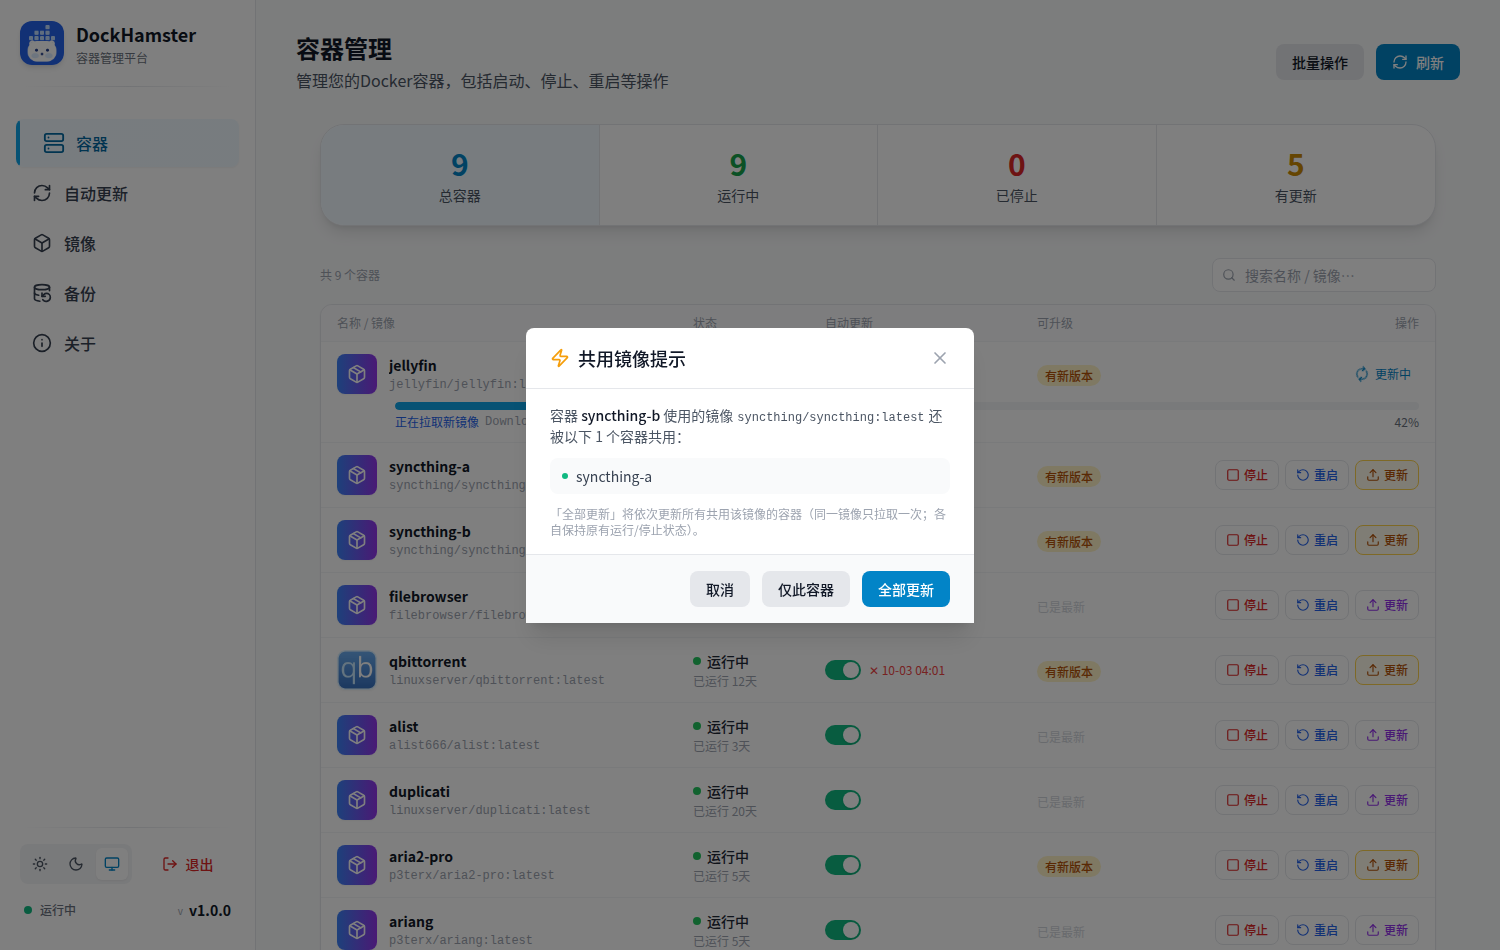
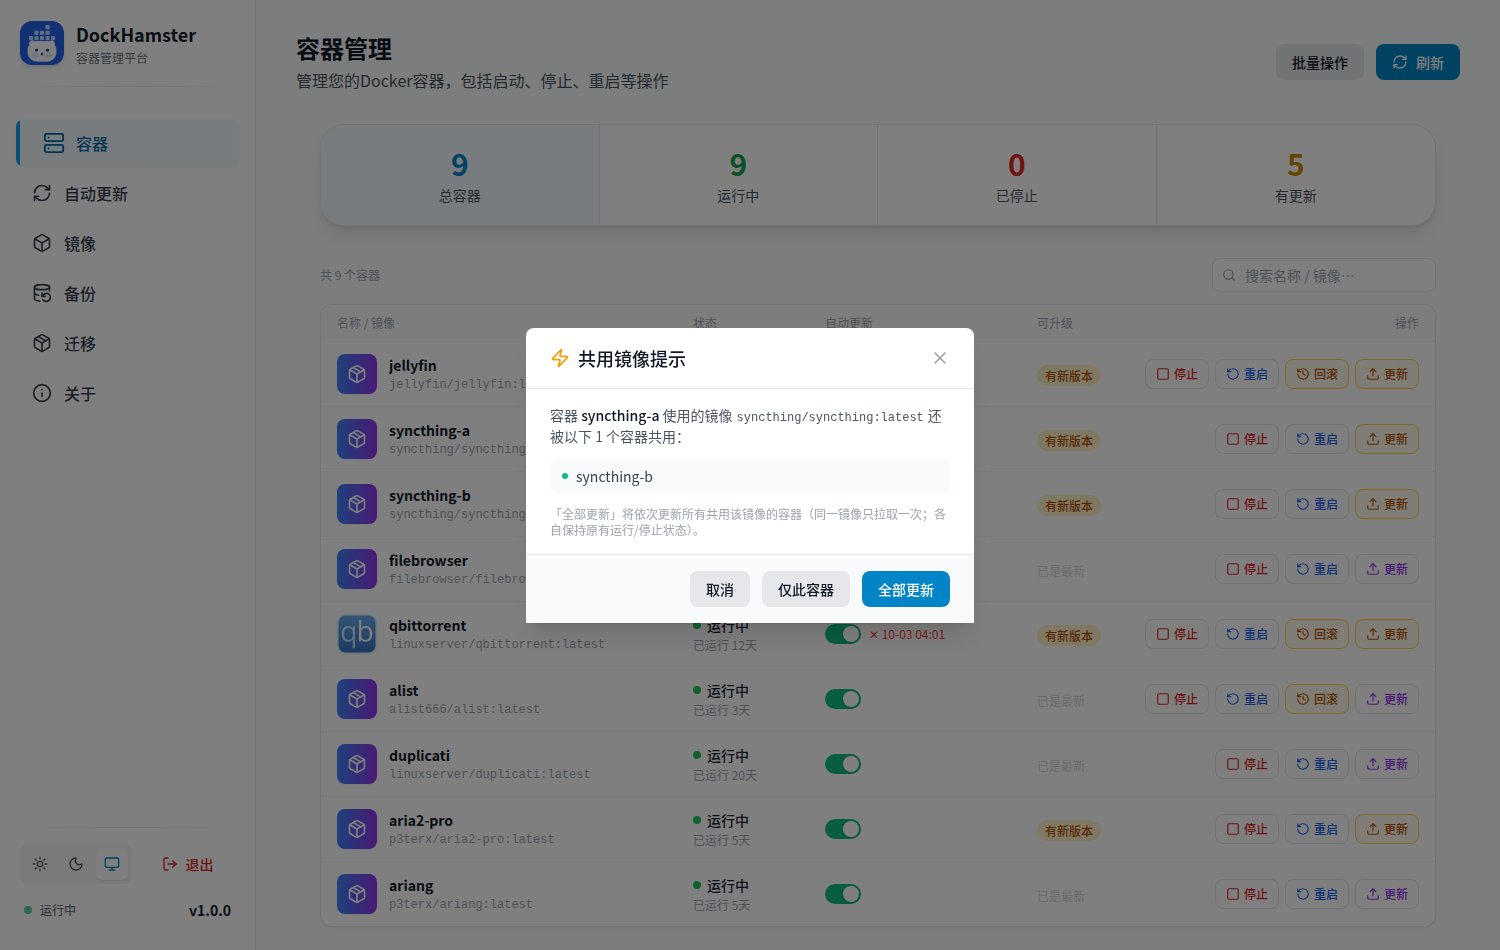
docs: 补充快照回滚与容器迁移说明，重拍全部截图 [skip ci]

diff --git a/FEATURES.md b/FEATURES.md
@@ -77,6 +77,60 @@
 - 交互保持不变：点行打开详情，Ctrl/Cmd+点击或批量模式勾选；统计卡筛选与搜索叠加生效
 - 移动端自动折行排版（每行折为「标题行 + 信息行 + 操作行」）
 
+### 8. 镜像快照与回滚
+
+更新容器时，**旧镜像**（更新前那一份）有三种处置方式，可全局设默认、也可给单个容器指定：
+
+| 策略 | 行为 |
+|---|---|
+| **清理**（默认） | 满足安全条件（无容器引用、无标签、非新镜像）才删除，省空间 |
+| **打快照保留** | 给旧镜像打上 `dh-snap/<名字>:<日期>-<时分>` 标签 → 天然免于自动清理，可随时回滚 |
+| 保留不处理 | 什么都不做（旧行为） |
+
+- **多容器共用镜像时"保留优先"**：任何一个容器要求快照，就给旧镜像打快照
+- **保留数量**：每个镜像默认只留最近 3 个快照，超量自动清理（走同样的安全条件）
+- **回滚**：容器行出现「回滚」按钮（仅当有可用快照）→ 选一个快照 → 用它重建容器
+  - **回滚前会自动给当前版本也打一份快照** → 回滚可逆（双向）
+  - 回滚复用标准更新流程（重建 + 保持原运行状态），全程进度条
+- **占用可见**：自动更新页显示快照数量 / 占用 / 系统盘剩余；镜像页新增「快照」分类可批量清理
+- 快照打的是**独立命名空间**（默认 `dh-snap/`），不参与"更新检测"，也不会被旧镜像清理删掉
+
+### 9. 容器迁移（本地包）
+
+三步闭环，全程零外部依赖（不需要 registry、不需要联网）：
+
+**① 镜像体检** — 扫描全部镜像并分类：
+
+| 分类 | 判定 | 含义 |
+|---|---|---|
+| 公共可得 | 有 RepoDigests（从仓库拉过） | 目标机可直接 pull，无需搬运 |
+| 本地构建 | 有 tag 但无 digest | 换机即丢，**必须打包搬运** |
+| 悬空 | 无任何 tag | 连名字都没有，先打标签才能搬运 |
+
+**② 打包导出** — 选中容器/镜像 → 生成单个 `.tar.gz` 迁移包，内含：
+
+```
+manifest.json      机器可读清单（镜像摘要 + 容器配方 + 校验和）
+images/*.tar.gz    docker save 出来的镜像（流式导出，字节级进度）
+compose.yaml       可直接使用的 compose 文件（含全部容器定义）
+import.sh          无面板一键导入脚本（只用标准 docker 命令）
+README.txt         场景化导入指引（有面板 / 只有 Docker / 手工）
+checksums.txt      校验和（sha256sum -c 可验证完整性）
+```
+
+- 可选：镜像压缩（gzip）、环境变量脱敏（密码/Token 类默认替换为 ****）
+- 容器配置原样保存，保证精确重建
+
+**③ 上传导入** — 上传包 → **预检（dry-run）** → 执行：
+
+- 预检逐容器给出：镜像可得性（本地已有 / 包内提供 / 可拉取 / 缺失）、名字冲突（自动建议新名）、端口冲突（谁占用了）、卷路径状态（**确不存在** / **面板不可见待确认**，后者附同名目录映射建议）
+- 覆盖项：容器改名、宿主端口重映射、卷路径重映射、缺失目录自动创建、导入后自动启动（仅启动原本在运行的）
+- 执行时按需 `docker load` 包内镜像 → 应用覆盖 → 重建容器，进度实时可见
+
+**无面板导入**（换机迁移的常见情形）：包内 `import.sh` 支持 `--dry-run`（只检查：磁盘空间 / 校验和 / 卷路径 / compose 语法），确认后直接执行即可；也可把 `compose.yaml` 粘进 Portainer 等其它面板。
+
+> 架构说明：镜像搬运记录使用 `transports[]` 数组（当前实现 `archive`；`registry` 为预留扩展位），导入端按 `本地已有 → 包内 → registry` 顺序兜底——后续接入自建 registry / Docker Hub 私有仓库是纯增量。
+
 ## 二、环境变量（仅初始默认值）
 
 环境变量只在 `/data/config/autoUpdate.json` **不存在时**用于生成初始配置；之后一律以页面配置为准。
@@ -101,6 +155,20 @@
 | GET | `/api/autoUpdate/status` | 运行状态 + 最近 30 次记录 + 每容器最近结果 |
 | POST | `/api/autoUpdate/testNotify` | 渠道测试发送（`{channel, config}`；config 为前端当前表单值） |
 | POST | `/api/container/:id/updateGroup` | 整组更新（更新与该容器共用同一镜像的所有容器，返回各容器任务 ID） |
+| GET | `/api/snapshot/list` | 快照列表 + 占用统计（数量/大小/磁盘剩余/保留数量） |
+| POST | `/api/snapshot/create` | 手动给容器当前镜像打快照（`{containerName}` 或 `{imageId}`） |
+| POST | `/api/snapshot/rollback` | 回滚到快照（`{containerName, ref}`，回滚前自动快照当前版本） |
+| POST | `/api/snapshot/prune` | 按保留数量清理超量快照（`{keep}` 可选） |
+| DELETE | `/api/snapshot?refs=a,b` | 删除指定快照（被容器使用的会拒绝） |
+| GET | `/api/migrate/images/report` | 镜像体检（分类 + 风险统计 + 磁盘剩余） |
+| POST | `/api/migrate/images/tag` | 给镜像打可搬运标签（`{imageId, ref}`，同名指向他人时拒绝覆盖） |
+| POST | `/api/migrate/exports` | 生成迁移包（异步，返回 taskID） |
+| GET | `/api/migrate/exports` | 迁移包列表 |
+| GET | `/api/migrate/exports/download?file=` | 流式下载（支持断点续传） |
+| DELETE | `/api/migrate/exports?file=` | 删除迁移包 |
+| POST | `/api/migrate/imports/upload` | 上传迁移包（multipart，≤10GB） |
+| POST | `/api/migrate/imports/plan` | 导入预检（dry-run，`{file}`） |
+| POST | `/api/migrate/imports/apply` | 执行导入（`{file, items[], start, autoCreateDirs}`，异步） |
 
 ## 四、代码位置（定制改动集中在）
 
@@ -112,6 +180,14 @@ internal/utiles/group_update.go    新增：整组更新
 internal/utiles/cleanup.go         新增：旧镜像安全清理
 internal/logic/autoupdate/         新增：设置/运行/状态/测试 逻辑 + cron 重注册
 internal/handler/autoupdate/       新增：handlers
+internal/module/migrate.go          新增：迁移包模型 + 搬运抽象（transports[] 多路线扩展位）
+internal/utiles/snapshot.go         新增：镜像快照（打标签/保留清理/占用统计/防覆盖）
+internal/utiles/migrate_classify.go 新增：镜像体检分类 + 可搬运标签
+internal/utiles/migrate_export.go   新增：迁移包导出（流式 save + 打包 + 进度）
+internal/utiles/migrate_import.go   新增：导入预检 + 执行（load/覆盖/重建）
+internal/utiles/migrate_artifacts.go / migrate_templates.go  新增：compose 生成 + import.sh/README 模板
+internal/logic/snapshot/ + handler/snapshot/   新增：快照 API
+internal/logic/migrate/ + handler/migrate/     新增：迁移 API
 internal/module/checkupdate.go     修改：digest 判定修复 + 并发锁 + 过期清理
 internal/utiles/updatecontainer.go 修改：更新选项、状态保持、清理挂钩
 internal/utiles/getcontainerlist.go 修改：改用并发安全的查询方法
@@ -121,7 +197,7 @@ internal/types/types.go / svc / dockercopilot.go  小改
 ```
 
 前端（[libremk66/DockHamster-UI](https://github.com/libremk66/DockHamster-UI)）：
-`src/components/AutoUpdate.jsx`（新增页面）、`Containers.jsx`（列表化/搜索/开关/整组弹窗/进度子行）、`Images.jsx`（列表化/搜索）、`ProgressBar.jsx`、`Header.jsx`、`App.jsx`、`api/client.js`。
+`src/components/AutoUpdate.jsx`（新增页面：白名单/通知/进度/旧镜像策略）、`Containers.jsx`（列表化/搜索/开关/整组弹窗/进度子行/回滚入口）、`Images.jsx`（列表化/搜索/快照分类）、`Migrate.jsx`（迁移页：体检/导出/导入）、`ProgressBar.jsx`、`Header.jsx`、`App.jsx`、`api/client.js`。
 
 ## 五、与上游的关系
 

diff --git a/README.md b/README.md
@@ -38,6 +38,8 @@
 | 🔔 **多渠道通知** | 更新成功/失败发送简报（含失败原因、清理统计、耗时）；支持**飞书 / 企业微信 / 钉钉 / Bark / Server酱 / Telegram / 自定义 Webhook**，每渠道独立测试 |
 | 🗂 **列表化界面 + 搜索** | 容器页 / 镜像页均为列表布局，状态、自动更新、可升级、操作一屏看清；容器按**名称/镜像**、镜像按**名称/Tag/ID** 实时搜索 |
 | 📊 **实时进度** | 批量与单个更新全程可见：真实进度条 + **字节级拉取进度** + 心跳耗时；批量有「进行中」面板，单个更新在容器行内**整行展开进度子行** |
+| 🏷 **镜像快照与回滚** | 更新后的旧镜像可按策略处置：**自动清理**（默认）或**打快照保留**；容器页一键回滚到任意快照，**回滚前会自动给当前版本也打一份快照**（双向可回滚）；全局默认 + 每容器单独覆盖 |
+| 📦 **容器迁移** | 三件套：**镜像体检**（找出换台机器就会丢的镜像）→ **打包导出**（docker save 镜像 + 容器配方 + compose + 一键导入脚本）→ **上传导入**（预检冲突，支持改名 / 端口重映射 / 卷路径映射）。迁移包自带 `import.sh`，**目标机没装面板也能还原** |
 | 🩹 **上游修复** | ① 修复多 RepoDigests 时"永远提示有更新"（[#165](https://github.com/onlyLTY/dockerCopilot/issues/165) 同源问题）② 检查缓存并发安全 ③ 更新时保持容器原有运行状态 |
 
 ## 三、界面预览
@@ -53,6 +55,16 @@
 **共用镜像整组更新**（点「更新」时自动识别共用同一镜像的其他容器）：
 
 ![共用镜像弹窗](docs/screenshots/group-update.png)
+
+**快照与回滚**（更新前自动留快照；容器行点「回滚」即可回到任意历史版本）：
+
+![回滚](docs/screenshots/rollback.png)
+
+**容器迁移**（镜像体检找出"换机即丢"的镜像 → 打包 → 导入预检）：
+
+![迁移体检](docs/screenshots/migrate-report.png)
+
+![迁移导入预检](docs/screenshots/migrate-import.png)
 
 **自动更新页**（计划 / 白名单 / 通知 / 运行记录）：
 
